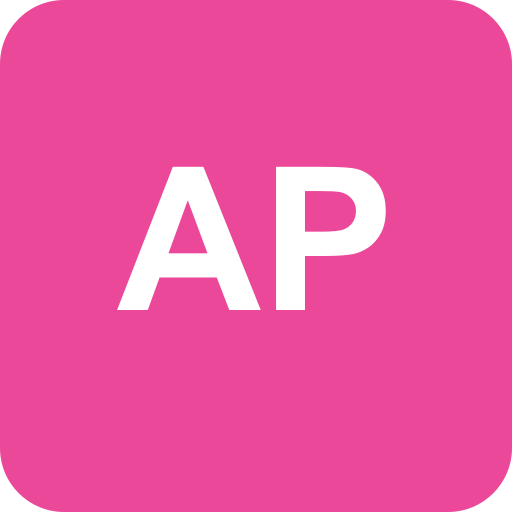
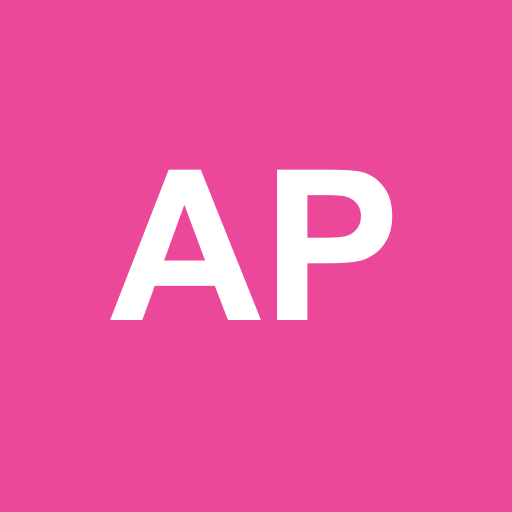
fix: corregir íconos PWA para instalación en iOS, Android y Windows
- Regenerar PNGs sin border-radius (cada OS aplica el recorte propio)
- apple-touch-icon 180x180 sólido para iOS
- maskable-icon con safe zone correcta para Android
- Agregar sizes="180x180" en <link rel="apple-touch-icon"> del HTML
- Agregar entrada 180x180 en el manifest de vite-plugin-pwa

diff --git a/client/index.html b/client/index.html
@@ -8,7 +8,9 @@
     <meta name="apple-mobile-web-app-capable" content="yes" />
     <meta name="apple-mobile-web-app-status-bar-style" content="default" />
     <meta name="apple-mobile-web-app-title" content="Agenda Psicope" />
-    <link rel="apple-touch-icon" href="/apple-touch-icon.png" />
+    <link rel="apple-touch-icon" sizes="180x180" href="/apple-touch-icon.png" />
+    <link rel="apple-touch-icon" sizes="152x152" href="/icon-192x192.png" />
+    <link rel="apple-touch-icon" sizes="192x192" href="/icon-192x192.png" />
     <link rel="mask-icon" href="/favicon.svg" color="#ec4899" />
     <title>Agenda Psicope</title>
   </head>

diff --git a/client/vite.config.js b/client/vite.config.js
@@ -57,6 +57,12 @@ export default defineConfig({
             type: 'image/png',
             purpose: 'maskable',
           },
+          {
+            src: '/apple-touch-icon.png',
+            sizes: '180x180',
+            type: 'image/png',
+            purpose: 'any',
+          },
         ],
       },
       workbox: {
